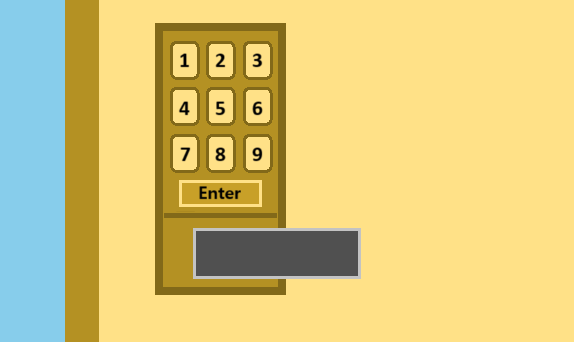
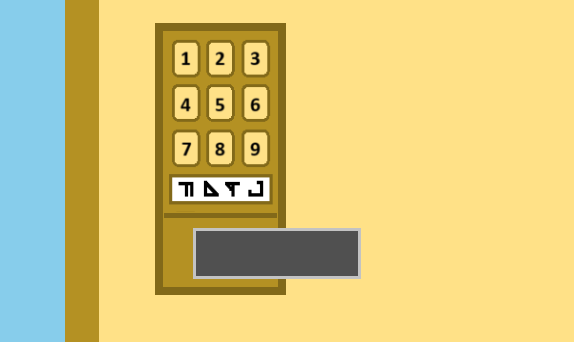
update commit

Changed region(s): [[0.2962, 0.117, 0.4739, 0.614]]

diff --git a/JS/code.js b/JS/code.js
@@ -1,6 +1,13 @@
 const Room1 = document.querySelector(".Room1");
 const Room2 = document.querySelector(".Room2");
+
 const lockedDoor = document.querySelector(".Locked-door");
+const doorForm = document.querySelector(".door-form");
+const doorInput = document.querySelector(".doorInput");
+const door__h3 = document.querySelector(".door__h3");
+const doorCorrectAnswer = "7416";
+let doorInputAnswer = "";
+
 const Room1_Drawers = document.querySelector(".Room1__서랍장");
 const inkImg = document.querySelector(".painting__액자");
 
@@ -45,16 +52,36 @@ function clickDiv(){
 
 //lockedDoor
 function doorClickDiv(){
-     removeHidden(doorIMG);
-    divText.innerText = "이 방의 유일한 문, 도어락 형태다.";
-};
+    removeHidden(doorIMG);
+    removeHidden(doorInput);
+   divText.innerText = "이 방의 유일한 문. 알 수 없는 문자들이 쓰여있다.";
+   if(doorInputAnswer == doorCorrectAnswer){ 
+       addHidden(doorInput); 
+       divText.innerText = "";
+       door__h3.innerText = "good";
+   }
+}
 lockedDoor.addEventListener("click", clickDiv);
 lockedDoor.addEventListener("click",  doorClickDiv);
+
+//lockedDoor 답안 검사
+doorForm.addEventListener("submit", (e) => {
+   e.preventDefault();
+   if(doorInput.value == doorCorrectAnswer){  
+    location.href = "end.html";
+   }
+   else{
+       doorInput.value = "";
+       door__h3.style.color = COLOR_RED;
+       door__h3.innerText = WrAnText;
+   }   
+})
+
  
 //img
 function imgClickDiv(){
      removeHidden(inkImgIMG);
-    divText.innerText = "그림이다. 'INK'옆의 색깔들은 조금 이상하기도 하다.";
+    divText.innerText = "그림이다.";
 };
 inkImg.addEventListener("click", clickDiv);
 inkImg.addEventListener("click", imgClickDiv);
@@ -63,6 +90,7 @@ inkImg.addEventListener("click", imgClickDiv);
 function drawerClickDiv(){
     if(hasKey == 1){
          removeHidden(OpenDrawerIMG);
+         removeHidden(item__teardPaper2);
         divText.innerText = "서랍이 열렸다. 안에서 찢어진 종이2를 발견했다.";
         
     }
@@ -79,7 +107,11 @@ divCloseBtn.addEventListener("click",()=>{
     divText.innerText =""; 
 
     addHidden(divClick);
+
     addHidden(doorIMG);
+    addHidden(doorInput);
+    door__h3.innerText = "";
+
     addHidden(inkImgIMG);
     addHidden(drawerIMG);
 
@@ -91,7 +123,11 @@ divCloseBtn.addEventListener("click",()=>{
     addHidden(금고input);
     금고__h3.innerText = "";
 
+
     addHidden(item__KeyIMG);
+    addHidden(item__teardPaperIMG);
+    addHidden(item__teardPaper2IMG);
+
     addHidden(OpenDrawerIMG);
     addHidden(drawer2_IMG);
 })

diff --git a/index.html b/index.html
@@ -107,9 +107,11 @@
 
             <img class="electronicBoard-IMG imgBox-sizing hidden" src="img/electronic board.png"/>
             <img class="금고-IMG imgBox-sizing hidden" src="img/금고.png"/>
-            <img class="drawer2-IMG imgBox-sizing hidden" src="img/OpenDrawer.png"/>
+            <img class="drawer2-IMG imgBox-sizing hidden" src="img/서랍2(opened).png"/>
            <!-- itemIMG -->
             <img class="item__key-IMG hidden" src="img/열쇠.png"/>
+            <img class="item__teard-paper-IMG hidden" src="img/teard-paper.png"/>
+            <img class="item__teard-paper2-IMG hidden" src="img/teard-paper2.png"/>
            <!-- inputForm-->
             <form class="전자기판Form">
                 <input class="전자기판input hidden input" type="text" maxlength="5"/>
@@ -117,11 +119,15 @@
             <form class="금고Form">
                 <input class="금고input hidden input" type="text" maxlength="4"/>
             </form>
+            <form class="door-form">
+                <input class="doorInput hidden input" type="text" maxlength="4"/>
+            </form>
            <!-- img에서 나오는 글 --> 
             <p class="imgText"></p>
             <div class="h3모음집">
                 <h3 class="전자기판__h3 h3"></h3>
                 <h3 class="금고__h3 h3"></h3>
+                <h3 class="door__h3 h3"></h3>
             </div>
             
         </div>
@@ -130,8 +136,8 @@
         <div class="item-bar__title">ITEM</div>
         <div class="imgItem">
             <img class="item__key imgItem-sizing hidden" src="img/열쇠.png"/>
-            <img class="item__teard-paper imgItem-sizing hidden" src="img/imageINK.png"/>
-            <img class="item__teard-paper2 imgItem-sizing hidden" src="img/INKimage.png"/>
+            <img class="item__teard-paper imgItem-sizing hidden" src="img/teard-paper.png"/>
+            <img class="item__teard-paper2 imgItem-sizing hidden" src="img/teard-paper2.png"/>
         </div>
     </footer>
     <script src="JS/code.js"></script>

diff --git a/JS/Room2.js b/JS/Room2.js
@@ -27,6 +27,16 @@ const WrAnText = "잘못된 비밀번호다.";
 const COLOR_GRREN = "green";
 const COLOR_RED = "red";
 
+//비밀번호 TV에 띄우기
+function TVpassword(){
+    const TV = document.querySelector(".TV");
+    const passwordH1 = document.createElement("h1");
+    TV.append(passwordH1);
+    passwordH1.innerText = "1234";
+    passwordH1.style.color = "white";
+    passwordH1.style.fontSize = "42px";
+}
+
 //전자기판
 function electronicBoardDiv(){
      removeHidden(electronicBoardIMG);
@@ -41,16 +51,6 @@ function electronicBoardDiv(){
 }
 electronicBoard.addEventListener("click", clickDiv);
 electronicBoard.addEventListener("click",  electronicBoardDiv);
-
-
-function TVpassword(){
-    const TV = document.querySelector(".TV");
-    const passwordH1 = document.createElement("h1");
-    TV.append(passwordH1);
-    passwordH1.innerText = "1234";
-    passwordH1.style.color = "white";
-    passwordH1.style.fontSize = "42px";
-}
 
 //전자기판 답안 검사
 전자기판Form.addEventListener("submit", (e) => {
@@ -95,7 +95,7 @@ Room2__금고.addEventListener("click", 금고div);
         금고__h3.style.color = COLOR_GRREN;
         금고__h3.innerText = 금고CoAnText;
         addHidden(금고input); 
-         removeHidden(item__key)
+         removeHidden(item__key);
         hasKey = 1;
     }
     else{
@@ -105,11 +105,12 @@ Room2__금고.addEventListener("click", 금고div);
     }   
 })
 
-//drawer2
+//서랍2
 function drawer2ClickDiv(){
-    removeHidden(drawer2_IMG);
-   divText.innerText = "또다른 서랍, 안에서 찢어진 종이를 얻었다.";
-};
+     removeHidden(drawer2_IMG);
+     removeHidden(item__teardPaper);
+    divText.innerText = "또다른 서랍, 안에서 찢어진 종이를 얻었다.";
+}
 drawer2.addEventListener("click", clickDiv);
 drawer2.addEventListener("click",  drawer2ClickDiv);
 

diff --git a/JS/item.js b/JS/item.js
@@ -2,8 +2,25 @@ const item__key = document.querySelector(".item__key");
 const item__KeyIMG = document.querySelector(".item__key-IMG");
 let hasKey = 0; //열쇠를 갖고있으면 1, 없으면 0.
 
+const item__teardPaper = document.querySelector(".item__teard-paper");
+const item__teardPaper2 = document.querySelector(".item__teard-paper2");
+
+const item__teardPaperIMG = document.querySelector(".item__teard-paper-IMG");
+const item__teardPaper2IMG = document.querySelector(".item__teard-paper2-IMG");
+
 item__key.addEventListener("click", () =>{
     clickDiv();
      removeHidden(item__KeyIMG);
     divText.innerText = "열쇠를 얻었다. 서랍을 열 수 있을 것 같다.";
 })
+item__teardPaper.addEventListener("click", () =>{
+    clickDiv();
+     removeHidden(item__teardPaperIMG);
+    divText.innerText = "찢어진 종이, 알 수 없는 기호들이 쓰여있다.";
+})
+item__teardPaper2.addEventListener("click", () =>{
+    clickDiv();
+     removeHidden(item__teardPaper2IMG);
+    divText.innerText = "찢어진 종이2, 번호들이 적혀있다.";
+})
+

diff --git a/end.html b/end.html
@@ -1,0 +1,19 @@
+<!DOCTYPE html>
+<html lang="en">
+<head>
+    <meta charset="UTF-8">
+    <meta name="viewport" content="width=device-width, initial-scale=1.0">
+    <title>END</title>
+    <style>
+        body{
+            display: flex;
+            flex-direction: column;
+            align-items: center;
+            
+        }
+    </style>
+</head>
+<body>
+    <h1>탈출에 성공하셨습니다!</h1>
+</body>
+</html>
